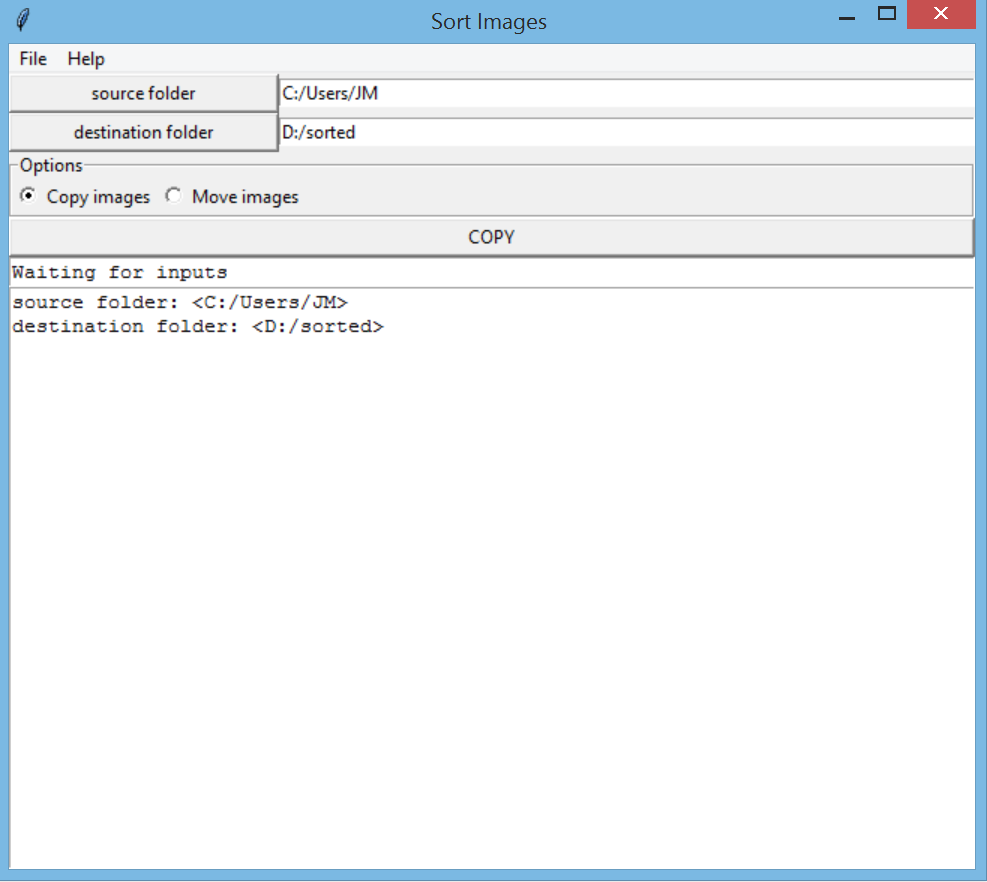
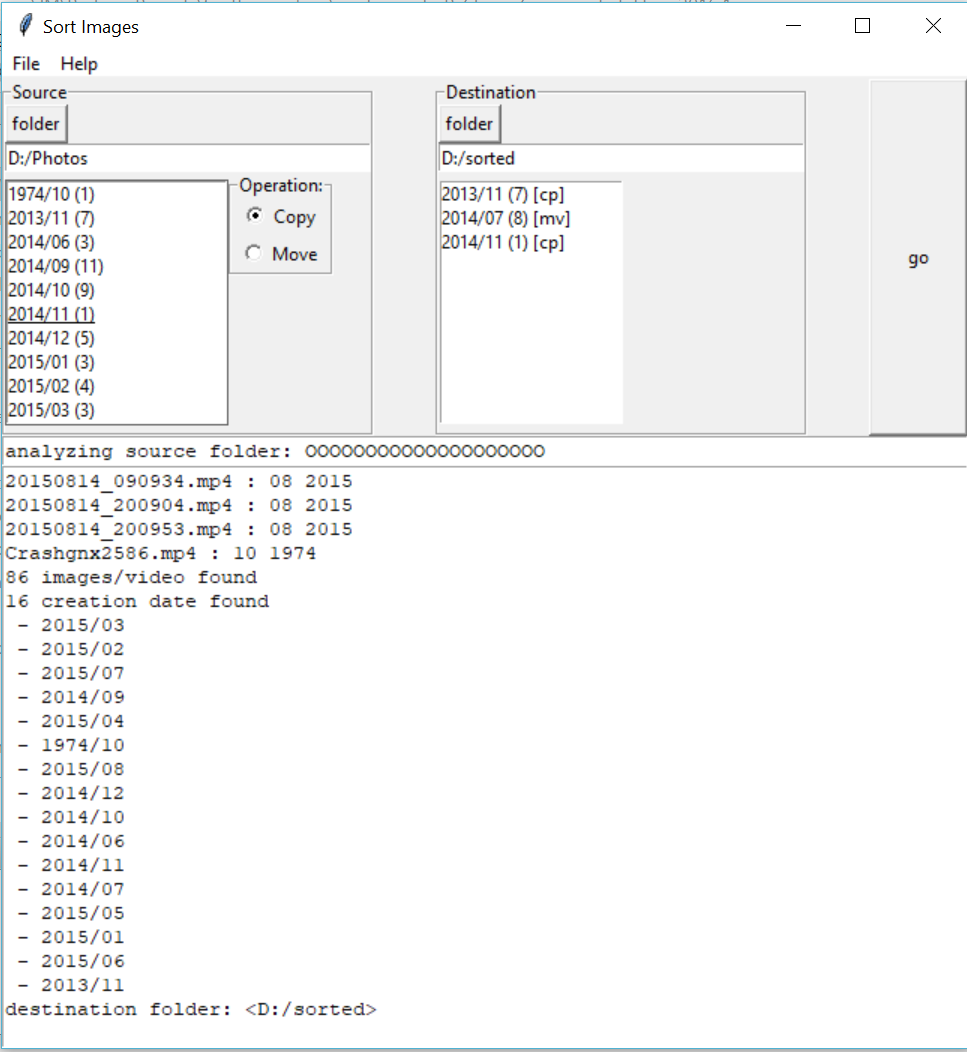
updated revision info and ui snapshot

Changed region(s): [[0.0, 0.0, 1.0, 1.0], [0.8066, 0.1837, 0.8376, 0.2143]]

diff --git a/sort_images.py b/sort_images.py
@@ -3,7 +3,7 @@ Copyright 2016 Jean-Marc Volle
 License: Apache-2.0
 """
 
-__version__='1.0.1'
+__version__='1.2.0'
 
 import exifread
 import datetime

diff --git a/changelog.md b/changelog.md
@@ -1,6 +1,11 @@
 # Change log
 All releases of this project are documented in this file.
 
+# 1.2.0
+- GUI modified
+- support for copy or move selection per date
+- support for mp4 parsing (based on file name)
+
 # 1.0.1
 ## bug fixes
  * files with no exif data will not hang Sort Images any more. Such files are
